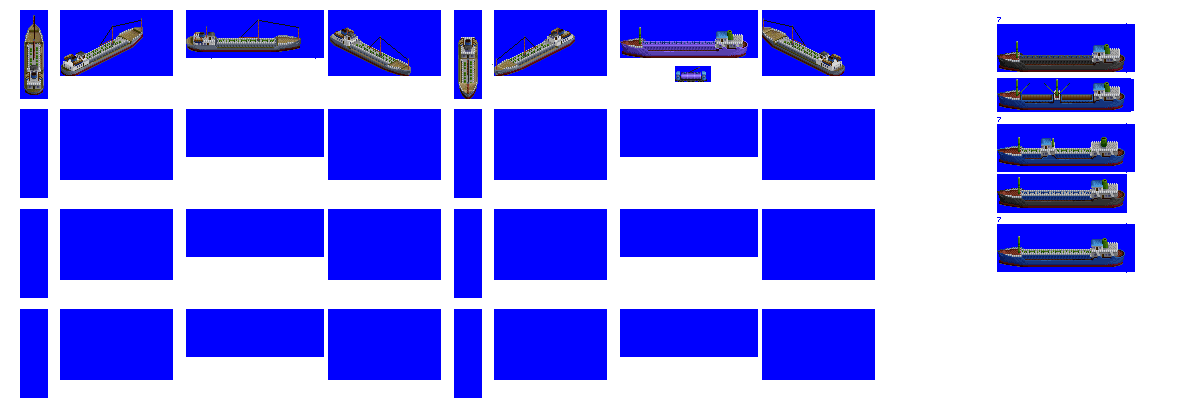
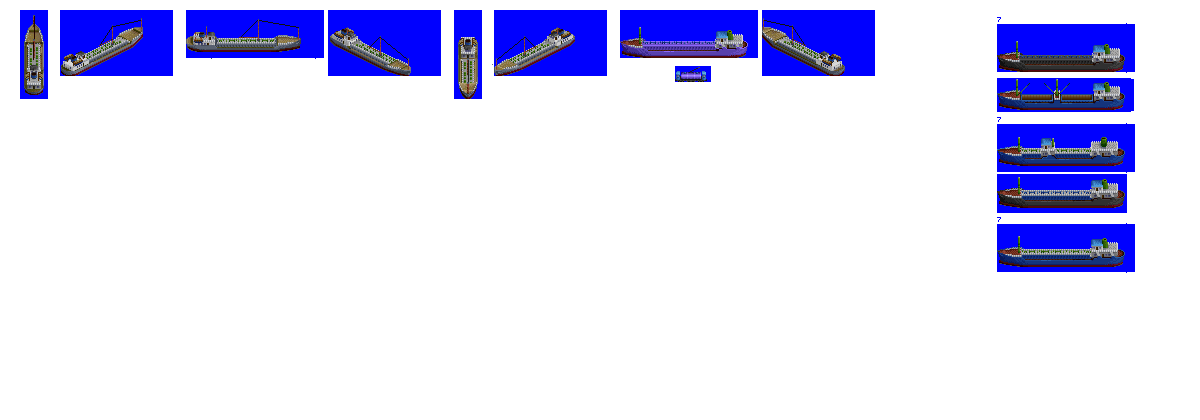
Change: hull masking proof-of-concept for load state

Changed region(s): [[0.0, 0.2476, 0.74, 0.9595]]

diff --git a/src/graphics_processor/pipelines.py b/src/graphics_processor/pipelines.py
@@ -121,21 +121,52 @@ class ExtendSpriterowsForCompositedCargosPipeline(Pipeline):
         crop_box_source = (0,
                            self.base_offset,
                            graphics_constants.spritesheet_width,
-                            self.base_offset + graphics_constants.spriterow_height)
-        vehicle_livery_only_spriterow_input_image = Image.open(self.input_path).crop(crop_box_source)
-        # vehicle_generic_spriterow_input_image.show() # comment in to see the image when debugging
-        vehicle_livery_only_spriterow_input_as_spritesheet = self.make_spritesheet_from_image(vehicle_livery_only_spriterow_input_image)
+                           self.base_offset + graphics_constants.spriterow_height)
+        vehicle_base_image = Image.open(self.input_path).crop(crop_box_source)
+        #vehicle_livery_row_1_image.show() # comment in to see the image when debugging
+
+        crop_box_mask_1 = (0,
+                           self.base_offset,
+                           graphics_constants.spritesheet_width,
+                           self.base_offset + graphics_constants.spriterow_height)
+        crop_box_mask_2 = (0,
+                           self.base_offset + graphics_constants.spriterow_height,
+                           graphics_constants.spritesheet_width,
+                           self.base_offset + (2 * graphics_constants.spriterow_height))
+        # no hull (load state) mask for row 1,
+        hull_mask_row_2 = Image.open(os.path.join('src','graphics','hull_masks','ship_128px.png')).crop(crop_box_mask_1).point(lambda i: 0 if i == 226 else 255).convert("1")
+        hull_mask_row_3 = Image.open(os.path.join('src','graphics','hull_masks','ship_128px.png')).crop(crop_box_mask_2).point(lambda i: 0 if i == 226 else 255).convert("1")
+
+        # 3 livery rows to paste so 3 comp masks
+        crop_box_comp_dest_1 = (0,
+                                0,
+                                graphics_constants.spritesheet_width,
+                                graphics_constants.spriterow_height)
+        crop_box_comp_dest_2 = (0,
+                                graphics_constants.spriterow_height,
+                                graphics_constants.spritesheet_width,
+                                2 * graphics_constants.spriterow_height)
+        crop_box_comp_dest_3 = (0,
+                                2 * graphics_constants.spriterow_height,
+                                graphics_constants.spritesheet_width,
+                                3 * graphics_constants.spriterow_height)
+
+        vehicle_livery_rows_image = Image.new("P", (graphics_constants.spritesheet_width, 3 * graphics_constants.spriterow_height))
+        vehicle_livery_rows_image.putpalette(DOS_PALETTE)
+        vehicle_livery_rows_image.paste(vehicle_base_image, crop_box_comp_dest_1)
+        vehicle_livery_rows_image.paste(vehicle_base_image, crop_box_comp_dest_2, hull_mask_row_2)
+        vehicle_livery_rows_image.paste(vehicle_base_image, crop_box_comp_dest_3, hull_mask_row_3)
+        vehicle_livery_rows_image.show()
+
+        vehicle_livery_row_image_as_spritesheet = self.make_spritesheet_from_image(vehicle_livery_rows_image)
 
         for label, recolour_map in recolour_map:
             crop_box_dest = (0,
                              0,
                              graphics_constants.spritesheet_width,
-                             graphics_constants.spriterow_height)
-            for i in range(3):
-                # !! temporary measure to get 3 rows per livery, 1 per load state
-                # !! this will need to use hull mask for loaded states, so loop over (mask=none, mask=50% load, mask=100% load)
-                self.units.append(AppendToSpritesheet(vehicle_livery_only_spriterow_input_as_spritesheet, crop_box_dest))
-                self.units.append(SimpleRecolour(recolour_map))
+                             3 * graphics_constants.spriterow_height)
+            self.units.append(AppendToSpritesheet(vehicle_livery_row_image_as_spritesheet, crop_box_dest))
+            self.units.append(SimpleRecolour(recolour_map))
 
     def add_bulk_cargo_spriterows(self):
         cargo_group_row_height = 2 * graphics_constants.spriterow_height
